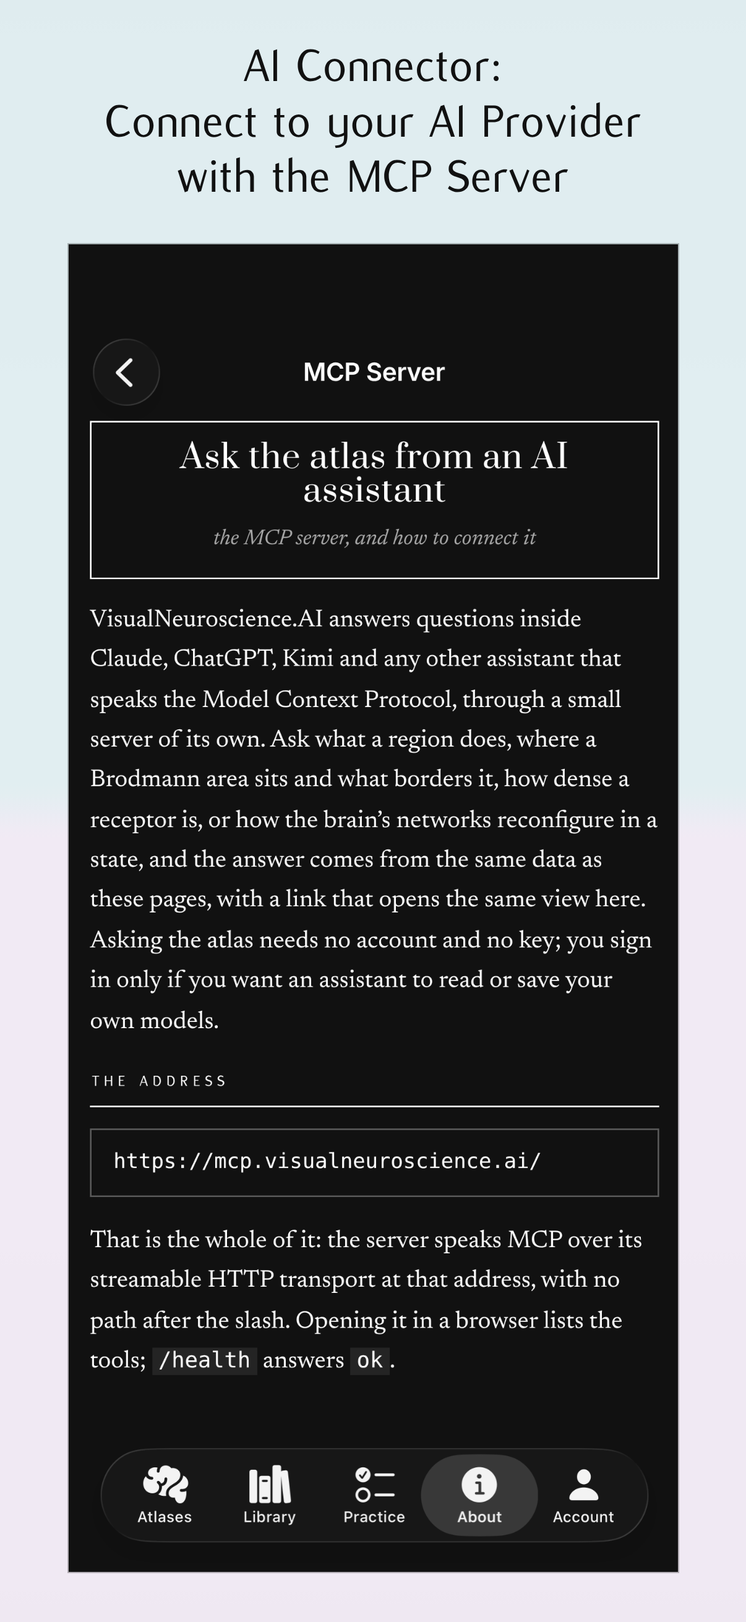
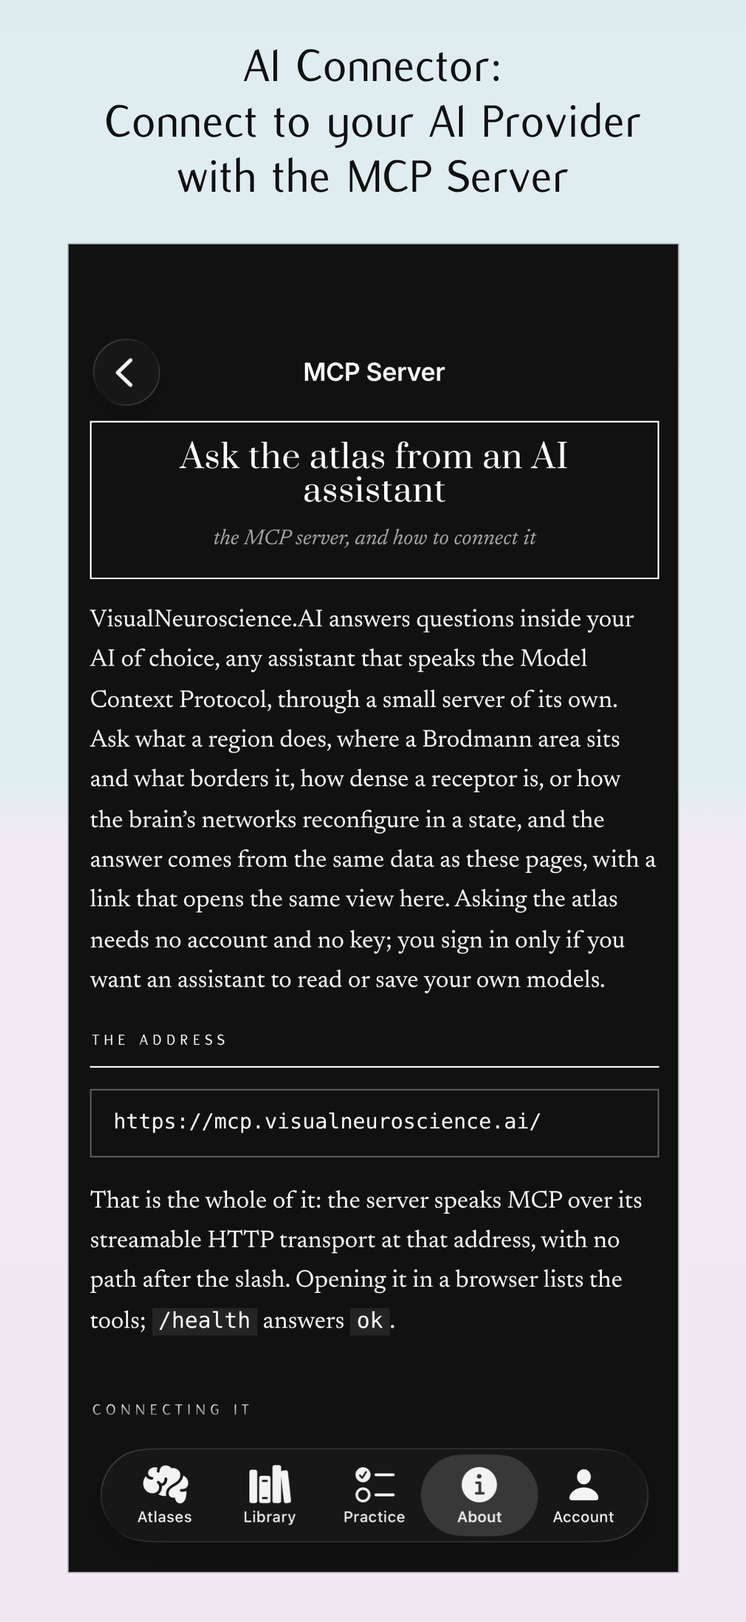
Name no AI assistant in the app, the site or the store listing
App Review rejected 2.0 (294) under Guideline 5 for the China mainland storefront because What's New, the description and the AI Connector screenshot named ChatGPT beside other assistants. At the owner's word every assistant's name comes out of the MCP page, the home page's About hub and its dateline link, the Vision Pro About card, the privacy policy, the About tab's twins in the shell and the listing's text, which now say to use the MCP server with your AI of choice; the MCP page's setup list describes adding the server in any assistant, for an organisation and in a coding assistant. The AI Connector store images are remade at every size, the closed Duo shots now light their own tab, and the listing carries the resubmission steps, a review note and a reply. The submission skill fails a sheet that names ChatGPT, OpenAI or GPT, warns on other assistants' names and tells the reader to check screenshot text, and the handover notes record the rule.

Changed region(s): [[0.1227, 0.3707, 0.8897, 0.865]]

diff --git a/site/mcp.html b/site/mcp.html
@@ -4,14 +4,14 @@
 <meta charset="utf-8">
 <meta name="viewport" content="width=device-width, initial-scale=1.0, viewport-fit=cover">
 <title>Ask the atlas from an AI assistant — VisualNeuroscience.AI</title>
-<meta name="description" content="How to connect VisualNeuroscience.AI to Claude, ChatGPT, Kimi or any assistant that speaks the Model Context Protocol, what its five tools answer, and where the answers come from.">
+<meta name="description" content="How to use VisualNeuroscience.AI with your AI of choice, any assistant that speaks the Model Context Protocol, what its five tools answer, and where the answers come from.">
 <!-- link previews. The card is built by site/share.html and rendered to
      assets/social-card.jpg; og:image has to be absolute, so this origin is
      the one thing to change if the site moves to its own domain. -->
 <meta property="og:type" content="website">
 <meta property="og:site_name" content="VisualNeuroscience.AI">
 <meta property="og:title" content="Ask the atlas from an AI assistant — VisualNeuroscience.AI">
-<meta property="og:description" content="Connect the brain atlas to Claude, ChatGPT or Kimi and ask it what a region does, where a receptor is densest, or how the brain changes in a state.">
+<meta property="og:description" content="Use the brain atlas with your AI of choice and ask it what a region does, where a receptor is densest, or how the brain changes in a state.">
 <meta property="og:url" content="https://visualneuroscience.ai/mcp.html">
 <meta property="og:image" content="https://midnightneuroscience.cloudflare-passport599.workers.dev/assets/social-card.jpg">
 <meta property="og:image:type" content="image/jpeg">
@@ -289,7 +289,7 @@ svg{ display:block; }
 
 <div class="policy">
 
-<p class="lede">VisualNeuroscience.AI answers questions inside Claude, ChatGPT, Kimi and any other assistant that speaks the Model Context Protocol, through a small server of its own. Ask what a region does, where a Brodmann area sits and what borders it, how dense a receptor is, or how the brain&rsquo;s networks reconfigure in a state, and the answer comes from the same data as these pages, with a link that opens the same view here. Asking the atlas needs no account and no key; you sign in only if you want an assistant to read or save your own models.</p>
+<p class="lede">VisualNeuroscience.AI answers questions inside your AI of choice, any assistant that speaks the Model Context Protocol, through a small server of its own. Ask what a region does, where a Brodmann area sits and what borders it, how dense a receptor is, or how the brain&rsquo;s networks reconfigure in a state, and the answer comes from the same data as these pages, with a link that opens the same view here. Asking the atlas needs no account and no key; you sign in only if you want an assistant to read or save your own models.</p>
 
 <h2>The address</h2>
 <pre><code>https://mcp.visualneuroscience.ai/</code></pre>
@@ -297,13 +297,11 @@ svg{ display:block; }
 
 <h2>Connecting it</h2>
 <ul>
-  <li><b>Claude</b> on the web, desktop or phone. Go to <i>Customize</i>, then <i>Connectors</i>, choose <i>Add custom connector</i>, paste the address, set authentication to <i>Sign in when needed</i> and press <i>Add</i>. The atlas tools then work straight away, and the account tools ask you to sign in the first time one is used. In a chat, press <b>+</b>, open <i>Connectors</i> and switch it on.</li>
-  <li><b>Claude on a Team or Enterprise plan.</b> An owner adds it once under <i>Organization settings</i>, then <i>Connectors</i>, with <i>Add</i>, then <i>Custom</i>. Everyone else finds it under <i>Customize</i>, then <i>Connectors</i>, and presses <i>Connect</i>.</li>
-  <li><b>Claude Code.</b> <code>claude mcp add --transport http visualneuroscience https://mcp.visualneuroscience.ai/</code></li>
-  <li><b>ChatGPT.</b> In <i>Settings</i>, then <i>Apps &amp; Connectors</i>, turn on <i>Developer mode</i> under <i>Advanced</i>, then <i>Add MCP server</i> with the address.</li>
-  <li><b>Kimi.</b> <code>kimi mcp add --transport http visualneuroscience https://mcp.visualneuroscience.ai/</code>, or the same entry in <code>~/.kimi-code/mcp.json</code>.</li>
+  <li><b>In an assistant&rsquo;s app or website.</b> Open the settings where it adds connectors, apps or MCP servers, add a custom one with the address and, if it asks how to authenticate, choose to sign in when needed. The atlas tools then work straight away, and the account tools ask you to sign in the first time one is used. Some assistants keep custom servers behind a developer mode in their settings, and most let you switch a connector on for each chat.</li>
+  <li><b>For a team or an organisation.</b> Where an owner manages connectors for everyone, they add it once with the address, and everyone else connects it from their own settings.</li>
+  <li><b>In a coding assistant.</b> Add it as an HTTP server named <code>visualneuroscience</code> with the address, through the assistant&rsquo;s own command for adding an MCP server or its MCP settings file.</li>
 </ul>
-<p>The five atlas tools are read-only and say so in their annotations, so an assistant can call them without asking you to approve each one; nothing an assistant does through them changes anything, here or anywhere. Four more tools work on your own account, and ask you to sign in the first time one is reached: on a Team or Enterprise plan, the owner should add the connector with authentication set to <i>Sign in when needed</i>.</p>
+<p>The five atlas tools are read-only and say so in their annotations, so an assistant can call them without asking you to approve each one; nothing an assistant does through them changes anything, here or anywhere. Four more tools work on your own account, and ask you to sign in the first time one is reached: where an owner adds the connector for an organisation, they should set its authentication to sign in when needed.</p>
 
 <h2>The five tools</h2>
 <dl>

diff --git a/site/privacy.html b/site/privacy.html
@@ -296,7 +296,7 @@ svg{ display:block; }
 <h2>Optional services</h2>
 <p>Five services add to the list above:</p>
 <ul>
-  <li><b>Questions asked through an AI assistant.</b> The atlas answers questions inside Claude, ChatGPT, Kimi and other assistants that speak the Model Context Protocol, through a small server at mcp.visualneuroscience.ai, <a href="mcp.html">described on its own page</a>. That server answers from the same public data as these pages, holds no accounts of its own, stores nothing about you, and keeps no record of your questions beyond the short-lived operational logs of the platform it runs on. If you choose to connect your account to an assistant, you log in on this site and press Allow, and the assistant is given a key that lets it read your username, university and email and list, open and save your Region Atlas models, through the same Firebase service the app uses and under the same rules; the server keeps no copy of any of it. The key stops working when you disconnect the assistant, change your password or delete the account. What you type to the assistant itself is governed by that assistant&rsquo;s own privacy policy, not this one.</li>
+  <li><b>Questions asked through an AI assistant.</b> The atlas answers questions inside the AI assistant of your choice, any that speaks the Model Context Protocol, through a small server at mcp.visualneuroscience.ai, <a href="mcp.html">described on its own page</a>. That server answers from the same public data as these pages, holds no accounts of its own, stores nothing about you, and keeps no record of your questions beyond the short-lived operational logs of the platform it runs on. If you choose to connect your account to an assistant, you log in on this site and press Allow, and the assistant is given a key that lets it read your username, university and email and list, open and save your Region Atlas models, through the same Firebase service the app uses and under the same rules; the server keeps no copy of any of it. The key stops working when you disconnect the assistant, change your password or delete the account. What you type to the assistant itself is governed by that assistant&rsquo;s own privacy policy, not this one.</li>
   <li><b>An account, if you make one.</b> When a Log in button is present, sign-in is handled by Google&rsquo;s Firebase service. It stores your email address, your name, the username you choose (which is shown in place of your name, and which no one else can take), your university if you give it, the files you choose to save (such as the named models of the Region Atlas), and your progress in the practice questions, so that the same account works on the web and in the apps. That data exists to serve your account back to you: it is deleted with the account, and it is never sold or used for advertising. Making an account also offers feature announcements by email, in a box that starts clear: tick it and your address goes to the newsletter below, leave it and nothing is sent. A run of wrong passwords is counted in your browser for a quarter of an hour, so that the sign-in box can ask for a tick before the next try; signing in clears the count.</li>
   <li id="newsletter"><b>The newsletter, if you ask for it.</b> A box on the website&rsquo;s pages offers a short email when something new lands, and making an account, on the website or in the apps, offers the same. If you type your address in, or tick the box as you make an account, a small server of ours passes it straight to Mailchimp, the mailing-list service run by Intuit, which keeps the newsletter&rsquo;s list on its servers in the United States and sends the emails. Mailchimp first writes to you to confirm, and you are on the list only once you do; every email carries a way to leave, and leaving takes you off the list. Nothing is sent unless you press the button or tick that box, the address is used for feature announcements and nothing else, and our server keeps no copy of its own. Closing the box is remembered in your browser for a fortnight; signing up is remembered so it does not ask again.</li>
   <li id="posters"><b>A poster, if you buy one.</b> The <a href="posters.html">posters</a> are sold through a print-on-demand shop run by a separate business, named on that page, which takes your payment, your delivery address and your order on its own site, under its own privacy policy, and prints and posts the poster. The Buy buttons here only open that shop; this site and the apps see none of what you enter there, and no part of your order is tied to an account here.</li>

diff --git a/site/index.html b/site/index.html
@@ -142,7 +142,7 @@ img{ max-width:100%; height:auto; display:block; }
   font-size:.95rem; letter-spacing:0; text-transform:none; color:var(--ink);
 }
 /* the web points to the App Store and, under it, to the MCP server, which
-   lets Claude and other AI assistants ask the atlas questions; the app,
+   lets the AI of a person's choice ask the atlas questions; the app,
    already installed, names its scans in place of the store and keeps the
    server line */
 .dateline .dl-links{ display:inline-flex; flex-direction:column; align-items:flex-end; gap:.35rem; }
@@ -409,7 +409,7 @@ img{ max-width:100%; height:auto; display:block; }
     <span class="dl-scan">MNI152 &middot; AAL-116</span>
     <span class="dl-links">
       <a class="dl-app" href="https://apps.apple.com/app/id6805618686" target="_blank" rel="noopener">Also on the App Store &rarr;</a>
-      <a class="dl-mcp" href="mcp.html">Also in Claude, as an MCP server &rarr;</a>
+      <a class="dl-mcp" href="mcp.html">Also with your AI of choice, as an MCP server &rarr;</a>
     </span>
   </div>
 
@@ -545,7 +545,7 @@ img{ max-width:100%; height:auto; display:block; }
       <div class="side">
         <div class="kicker">For AI assistants</div>
         <h2>MCP Server</h2>
-        <p>Ask the atlas from Claude, ChatGPT, Kimi or any assistant that speaks the Model Context Protocol: what a region does, where a receptor is densest, how the brain changes in a state. Each answer links to the view it describes.</p>
+        <p>Use the MCP server with your AI of choice. Any assistant that speaks the Model Context Protocol can ask the atlas what a region does, where a receptor is densest or how the brain changes in a state, and each answer links to the view it describes.</p>
         <div class="meta">9 tools &middot; no key needed &middot; sign in only for your own models</div>
         <div class="go">How to connect &rarr;</div>
       </div>
@@ -563,7 +563,7 @@ img{ max-width:100%; height:auto; display:block; }
       <ul class="soon-list">
         <li><b>Circuit Atlas</b><span>The 3D Region Atlas with the traffic drawn on: animated paths run from region to region, so a circuit such as the Hallucinations study&rsquo;s plays out on the brain.</span></li>
         <li><b>Regions in depth</b><span>A detailed functional breakdown of every region, written from the research, beyond the line the atlas gives each one now.</span></li>
-        <li><b>The MCP server, extended</b><span>New tools for an assistant: the Circuit Atlas&rsquo;s paths and the detailed breakdowns, answered in Claude, ChatGPT, Kimi or any assistant that speaks the protocol.</span></li>
+        <li><b>The MCP server, extended</b><span>New tools for your AI of choice: the Circuit Atlas&rsquo;s paths and the detailed breakdowns, answered in any assistant that speaks the protocol.</span></li>
       </ul>
     </div>
 

diff --git a/site/vision-about.html b/site/vision-about.html
@@ -57,7 +57,7 @@
   <div class="vcard">
     <div class="vkicker">For AI assistants</div>
     <h2>MCP Server</h2>
-    <p class="lede">Ask the atlas from Claude, ChatGPT, Kimi or any assistant that speaks the Model Context Protocol: what a region does, where a receptor is densest, how the brain changes in a state. Each answer links to the view it describes.</p>
+    <p class="lede">Use the MCP server with your AI of choice. Any assistant that speaks the Model Context Protocol can ask the atlas what a region does, where a receptor is densest or how the brain changes in a state, and each answer links to the view it describes.</p>
     <p class="mcp-at">Add <b>https://mcp.visualneuroscience.ai/</b> to the assistant as a connector.</p>
     <p class="mcp-meta">9 tools &middot; no key needed &middot; sign in only for your own models</p>
   </div>
@@ -78,7 +78,7 @@
     <h3>The atlas</h3>
     <p>An interactive atlas of the human brain: the MNI152 head under the AAL-116 parcellation, the Brodmann areas searchable by what they do, whole-brain tractography, receptor densities, network states and published studies drawn on the scan &mdash; free, offline, and rendered on your own device. I believe it is the most advanced and most usable brain atlas on the App Store: the deep atlases live in research infrastructure like the EU&rsquo;s EBRAINS, built for laboratories, and nothing there or on the store puts this much of the brain in your hands, readable without training.</p>
 
-    <p>It is also available as an MCP server: Claude and other AI assistants can ask the atlas questions at <b>mcp.visualneuroscience.ai</b>, with answers that link back into the atlas.</p>
+    <p>It is also available as an MCP server: your AI of choice can ask the atlas questions at <b>mcp.visualneuroscience.ai</b>, with answers that link back into the atlas.</p>
 
     <h3>The developer</h3>
     <p>I am Fadil Karim. I finished a PGCert in Applied Neuroscience at King&rsquo;s College London and could not carry it on to the full master&rsquo;s &mdash; full-time work and the cost got in the way. So I kept learning by building the atlas I had wanted to study from. One person, at OttomanLabs, with a short feedback loop: write to <b>fkarim@visualneuroscience.ai</b> and it usually ships within the week.</p>

diff --git a/app/ios/App/App/Shell.swift b/app/ios/App/App/Shell.swift
@@ -346,7 +346,7 @@ struct AboutTab: View {
     var body: some View {
         TabPage {
             PageBox(page: .mcp, kicker: "For AI assistants",
-                    text: "Ask the atlas from Claude, ChatGPT, Kimi or any assistant that speaks the Model Context Protocol: what a region does, where a receptor is densest, how the brain changes in a state. Each answer links to the view it describes.",
+                    text: "Use the MCP server with your AI of choice. Any assistant that speaks the Model Context Protocol can ask the atlas what a region does, where a receptor is densest or how the brain changes in a state, and each answer links to the view it describes.",
                     meta: "9 tools · no key needed · sign in only for your own models",
                     go: "How to connect")
             Box(kicker: "On the way", title: "Coming soon",
@@ -354,7 +354,7 @@ struct AboutTab: View {
                 VStack(alignment: .leading, spacing: 0) {
                     SoonRow(name: "Circuit Atlas", text: "The 3D Region Atlas with the traffic drawn on: animated paths run from region to region, so a circuit such as the Hallucinations study’s plays out on the brain.")
                     SoonRow(name: "Regions in depth", text: "A detailed functional breakdown of every region, written from the research, beyond the line the atlas gives each one now.")
-                    SoonRow(name: "The MCP server, extended", text: "New tools for an assistant: the Circuit Atlas’s paths and the detailed breakdowns, answered in Claude, ChatGPT, Kimi or any assistant that speaks the protocol.")
+                    SoonRow(name: "The MCP server, extended", text: "New tools for your AI of choice: the Circuit Atlas’s paths and the detailed breakdowns, answered in any assistant that speaks the protocol.")
                 }
                 .padding(.top, 10)
             }

diff --git a/app/scripts/remake-store-images.js b/app/scripts/remake-store-images.js
@@ -298,6 +298,8 @@ SHOTS.push(
 );
 const PHONE = Object.fromEntries(SHOTS.filter(x => x.dev === 'iphone' && x.top).map(x => [x.out, x]));
 for (const s of SHOTS) if (s.dev === 'duo') s.top = PHONE[s.out] ? PHONE[s.out].top : 'iphone-top-dark-3d-region-atlas';
+/* the closed Duo's column lights the page's own tab as the open one does (it lit Atlases on every shot until v12.69) */
+for (const s of SHOTS) if (s.dev === 'duo') s.tab = TAB[s.out] || 'atlases';
 
 /* the page as the shell shows it */
 const shell = (o) => {

diff --git a/site/sw.js b/site/sw.js
@@ -25,7 +25,7 @@
    Nothing cross-origin is touched at all — since the typefaces moved
    in-house there is no outside request left to think about. */
 
-var VERSION = "vn-271";
+var VERSION = "vn-272";
 var SHELL   = VERSION + "-shell";
 var BULK    = VERSION + "-bulk";
 

diff --git a/.claude/skills/app-store-connect-submission/scripts/check_sheet.py b/.claude/skills/app-store-connect-submission/scripts/check_sheet.py
@@ -18,7 +18,7 @@ decides which fields must be there.
 The script counts every field against its limit (the keywords in bytes as
 well, the stricter reading), checks the keywords against the store's
 rules, looks in the public text for words the store refuses (other
-platforms, "beta", unfinished markers), checks that every URL is https
+platforms, AI assistants by name, "beta", unfinished markers), checks that every URL is https
 and, with --online, that each one answers. Text in [[double brackets]]
 inside a field's block is typed by hand into App Store Connect (a password,
 a phone number) and is listed as such; anywhere else in the sheet it is a
@@ -56,6 +56,12 @@ PUBLIC = ('name', 'subtitle', 'promotional text', 'description', 'keywords', "wh
 # Words a store listing may not carry (2.3.10, 2.1) and words that waste keyword room.
 # Apple's own devices are fine to name; other companies' platforms and stores are not.
 PLATFORM = re.compile(r'\b(android|google play|play store|windows phone|windows store|samsung galaxy store|huawei appgallery)\b', re.I)
+# AI assistants by name. App Review rejects a listing for the China mainland
+# storefront when its metadata names a generative AI service with no permit
+# there (Guideline 5; ChatGPT and OpenAI by name, as on 30 October 2026), so
+# those fail and the other assistants' names warn: say "your AI of choice".
+AI_FAIL = re.compile(r'\b(chatgpt|openai|gpts?)\b', re.I)
+AI_WARN = re.compile(r'\b(claude|anthropic|gemini|bard|copilot|kimi|moonshot|deepseek|grok|perplexity|llama|mistral|qwen)\b', re.I)
 UNFINISHED = re.compile(r'\b(TODO|TBD|FIXME|XXX|lorem ipsum)\b', re.I)
 UNFINISHED_PROSE = re.compile(r'\b(TODO|TBD|FIXME)\b')
 BETA = re.compile(r'\b(beta|test version|pre-release|prerelease)\b', re.I)
@@ -265,6 +271,12 @@ def main(argv):
             warns.append(f'{name} names another platform or store ("{m.group(0)}"); guideline 2.3.10 forbids it.')
         for m in BETA.finditer(body):
             warns.append(f'{name} says "{m.group(0)}"; the store wants finished apps (2.1).')
+        for ai in sorted({m.group(0) for m in AI_FAIL.finditer(body)}):
+            fails.append(f'{name} names "{ai}"; App Review rejects that for the China mainland storefront (Guideline 5). '
+                         'Say "your AI of choice", or leave China out of Availability.')
+        for ai in sorted({m.group(0) for m in AI_WARN.finditer(body)}):
+            warns.append(f'{name} names "{ai}"; if that is an AI assistant, China\'s rules can reject it as they do ChatGPT '
+                         '(Guideline 5). Name no assistant, or leave China out of Availability.')
 
     # in the fields: what is typed by hand, and what was never finished
     for _, name, _, body in fields:

diff --git a/app/store/LISTING.md b/app/store/LISTING.md
@@ -244,13 +244,13 @@ ten for the iPad and ten for each iPhone size.
 Check the build number on the 1.0 page first. If 1.0 went out as build 14
 rather than 15, the second block is new to App Store users as well and goes
 at the end of the first. 4,000 characters allowed; both together come to
-3,180.
+3,148.
 
-**What's New in This Version** (2,812/4000)
+**What's New in This Version** (2,780/4000)
 
 ```
 • A tab bar: Atlases, Library, Practice, About and Account, each a page of its own that keeps its place when you switch away and back. Light or dark is chosen under Account.
-• AI Connector: ask the atlas from Claude, ChatGPT, Kimi or any assistant that supports the Model Context Protocol. Each answer links to the view it describes, and the About tab shows how to connect.
+• AI Connector: use the MCP server with your AI of choice. Any assistant that supports the Model Context Protocol can ask the atlas questions, each answer links to the view it describes, and the About tab shows how to connect.
 • Every atlas fills the screen like an anatomy app: the views take the room, the tools run along a bar at the foot, and the regions sit in a drawer you can hide. Each atlas remembers where you left it, cuts and all.
 • Microanatomy: a neuron drawn part by part, with twenty structures to tap and a quiz to learn them, seventeen neurotransmitters drawn the way chemists draw them, and a hundred and fifty receptors, channels and transporters, each with the drugs that act on it.
 • Molecular: the dopamine and serotonin receptors themselves in 3D, built from thirty-nine experimental structures. Watch the neurotransmitter dock and switch the receptor on, see where antipsychotics, triptans, LSD and psilocin sit in the same pocket, and compare the subtypes. The binding tour reads at two levels, Simple and Detailed.
@@ -281,7 +281,7 @@ the owner's word; it can be changed at any time without a new version:
 A free 3D atlas of the human brain: regions, Brodmann areas, receptors, cells, white matter and networks, with revision questions and an AI connector. Works offline.
 ```
 
-**Description** (3,952/4000). 1.0's description predated
+**Description** (3,974/4000). 1.0's description predated
 Microanatomy, Molecular and the AI Connector and said its developer had not
 finished the postgraduate certificate, which was finished; this one follows
 the Play listing's list, adds the AI Connector, words the account line for
@@ -306,7 +306,7 @@ WHAT IS INSIDE
 
 AI CONNECTOR
 
-Ask the atlas from Claude, ChatGPT, Kimi or any assistant that supports the Model Context Protocol: what a region does, where a receptor is densest, how the brain changes in a state. Each answer links to the view it describes; the About tab shows how to connect.
+Use the MCP server with your AI of choice. Any assistant that supports the Model Context Protocol can ask the atlas what a region does, where a receptor is densest or how the brain changes in a state; each answer links to the view it describes, and the About tab shows how to connect.
 
 MADE FOR TOUCH, AND FOR A DESK
 
@@ -329,6 +329,35 @@ Built by one developer, with the help of AI and a PG Cert in Applied Neuroscienc
 Not a medical device and not a diagnostic tool. An educational reference that summarises published work and draws published atlases, with its sources on every page.
 
 Also on the web at visualneuroscience.ai
+```
+
+## 2.0 (294) rejected for China: resubmitting
+
+App Review rejected 2.0 (294) on 30 October 2026 under Guideline 5 (Legal):
+China's rules on generative AI services, which ChatGPT holds no permit for,
+and "the app's metadata includes the following references to ChatGPT and/or
+OpenAI: ChatGPT, GPT". They came from the AI Connector lines of What's New
+and the description, and from the AI Connector screenshot, the MCP page,
+which named Claude, ChatGPT and Kimi; 1.0 had no AI Connector and never
+named one. Since v12.69, at the owner's word, nothing in the listing, the
+screenshots or the app names an AI assistant: the connector is used with
+"your AI of choice". To resubmit:
+
+1. Wait for the build Xcode Cloud makes from v12.69 or later (the About
+   tab's text is in the app) and pick it on the 2.0 page in place of 294.
+2. Paste *What's New* and the description again from above.
+3. Replace the AI Connector images (`*-11-mcp.png`, every size) with the
+   ones remade in v12.69, or leave that shot out of the ten.
+4. Add this paragraph to the notes under App Review Information:
+
+```
+Guideline 5 (China): this version names no AI assistant anywhere, in its metadata, its screenshots or the app itself. The app has no ChatGPT or OpenAI functionality: it embeds no AI model and calls no AI service. Its AI Connector is a public Model Context Protocol server on our own domain that a person can add, outside the app, to an assistant of their choice; the app only explains how.
+```
+
+5. Reply to the message in App Review, then resubmit:
+
+```
+Hello, and thank you for the review. We have removed every reference to ChatGPT and OpenAI, and to any other AI assistant, from the app's metadata, its screenshots and the app itself, and the Review Notes now say so. The app has no ChatGPT or OpenAI functionality: it embeds no AI model and calls no AI service. Its AI Connector is a public Model Context Protocol server on our own domain that a person can add to an assistant of their choice outside the app. We have resubmitted version 2.0 with a new build. Thank you.
 ```
 
 ## Submitting 2.0, in order

diff --git a/CLAUDE.md b/CLAUDE.md
@@ -73,7 +73,7 @@ Read this first in every session. It is the handover; nothing else needs pasting
   under the portrait, from Thank you for downloading Visual Neuroscience (the lede) to Write to
   fkarim@visualneuroscience.ai and I read it myself, then the signature, the links and the stamp, with no headings (v12.15
   had cut the six sections that stood there); since v12.25, at the owner's word, its models are from Anthropic and
-  Moonshot, where it said Kimi (the MCP pages still name Kimi, the assistant); and since v12.43, at the owner's word,
+  Moonshot, where it said Kimi (the MCP pages named Kimi, the assistant, until v12.69, below); and since v12.43, at the owner's word,
   the second paragraph no longer opens with I am a solo developer, and the built-with sentence reads with knowledge
   from my post-grad in Applied Neuroscience from King's College London Online and my experience in software
   development, where it read with the help of AI and my knowledge from my PG Cert, and the invitation to write in
@@ -206,6 +206,19 @@ Read this first in every session. It is the handover; nothing else needs pasting
   notes, Brodmann areas, network states or the receptor table in `regions.html` change, then ask for a deploy. Its
   sign-in (`mcp-worker/oauth.js`, consent page `site/connect.html`) needs the `OAUTH_SECRET` worker secret, set once
   by the owner; `node mcp-worker/tests/oauth.test.mjs` runs the whole flow offline and must pass before a deploy.
+- **Name no AI assistant** anywhere the app, the site's pages or the store listing shows, pictures included: the MCP
+  server is used with "your AI of choice" (v12.69, at the owner's word). App Review rejected 2.0 (294) on 30 October
+  2026 under Guideline 5 for the China mainland storefront, whose rules refuse generative AI services without a
+  permit there, because What's New, the description and the AI Connector screenshot named ChatGPT beside Claude and
+  Kimi; v12.69 took every assistant's name out of `mcp.html` (its Connecting it list now says how to add the server
+  in any assistant's settings, for an organisation and in a coding assistant), the home page's About hub and its
+  dateline link, `vision-about.html`, `privacy.html`, the About tab's twins in `Shell.swift`, `app/store/LISTING.md`
+  and the AI Connector images, and the submission skill's `check_sheet.py` now fails on ChatGPT, OpenAI and GPT and
+  warns on other assistants' names. The repository's own notes keep the per-assistant setup (`docs/MCP.md`,
+  `README.md`, comments in `mcp-worker/`), and three mentions stand for the owner to decide: the letter's models
+  from Anthropic and Moonshot (`about.html`, the owner's words), the Vision Pro card's How it was built
+  (`vision-about.html`) and one OpenStax sentence naming ChatGPT as an example of AI (`textbook.html`, the book's
+  own text).
 - Usage counts (since v11.21): Google Analytics for Firebase on the website (the vendored bundle's analytics module,
   `measurementId` in `site/assets/firebase-config.js`) and in the apps (`@capacitor-firebase/analytics`, iOS trait
   `AnalyticsWithoutAdIdSupport`, Android manifest with advertising-ID collection off). `site/assets/auth.js` initialises
@@ -986,7 +999,9 @@ Read this first in every session. It is the handover; nothing else needs pasting
 
 ## Open on the owner's side (update as they close)
 - App Store: version 1.0 was approved and released on 25 September 2026 (https://apps.apple.com/app/id6805618686)
-  after an expedited review. The project is at 2.0 for the next submission (the owner's choice of 25 October 2026, in
+  after an expedited review. 2.0 (294) was rejected on 30 October 2026 under Guideline 5 for naming ChatGPT (see
+  Name no AI assistant above); `app/store/LISTING.md` has the resubmission's steps, review note and reply, and it
+  needs a build from v12.69 or later. The project is at 2.0 for the next submission (the owner's choice of 25 October 2026, in
   place of 1.1: `MARKETING_VERSION` in the Xcode project and Android's `versionName`, and the version page in App Store
   Connect must say 2.0 as well, since a build's number and its page's must agree); its What's New text, the App Privacy
   changes the newsletter and the usage counts need, and the steps are in `app/store/LISTING.md`, the screenshots in

diff --git a/.claude/skills/app-store-connect-submission/SKILL.md b/.claude/skills/app-store-connect-submission/SKILL.md
@@ -30,7 +30,7 @@ references/screenshots.md     the slots, the sizes, what a screenshot may show, 
 references/review-replies.md  the Information Needed reply, answering rejections, what to do while waiting
 assets/sheet-template.md      the sheet's skeleton, all three kinds
 assets/example-update.md      an illustration of a finished update sheet: the shape and the voice, not values to copy
-scripts/check_sheet.py        counts every field against its limit; checks keywords, platform words, URLs, gaps and open questions
+scripts/check_sheet.py        counts every field against its limit; checks keywords, platform words, AI assistants' names, URLs, gaps and open questions
 scripts/check_screenshots.py  says which slot each image fits; flags sizes no slot takes and transparency
 scripts/live_listing.py       what the App Store shows now for a live app: version, release notes, description
 ```
@@ -110,7 +110,8 @@ rules that matter most:
   line true on the new device (writing.md, section 10).
 - **Write in the project's voice.** Plain, specific, the project's spelling
   (British if its pages are), no superlatives, no other companies'
-  platforms or stores, no competitors' names, nothing the app does not do.
+  platforms or stores, no competitors' names, no AI assistant by name (say
+  "your AI of choice"), nothing the app does not do.
 - **What's New is for the public**: what they can do now that they could
   not in the version they have, most noticeable first, in their words, no
   file names or build talk.
@@ -144,7 +145,7 @@ manual release and let the person decide when.
 ### 5. Check it
 
 ```
-python3 scripts/check_sheet.py <sheet.md>            # counts, keywords, platform words, gaps, open questions
+python3 scripts/check_sheet.py <sheet.md>            # counts, keywords, platform and AI words, gaps, open questions
 python3 scripts/check_sheet.py <sheet.md> --online   # and asks each URL whether it answers
 python3 scripts/check_screenshots.py <folder>        # each image's slot; sizes no slot takes; transparency
 ```
@@ -227,6 +228,12 @@ at any time without a new version.
 - **A new device's screenshots can claim more than the build gives.** A
   device whose layout needs a newer SDK is served properly only by a build
   made with it; fill its slot only once the build earns it.
+- **An update was rejected for China under Guideline 5** for naming
+  ChatGPT beside other assistants in What's New, the description and a
+  screenshot of a page that named them. Name no AI assistant anywhere the
+  public reads, pictures included: the sheet check fails on ChatGPT, OpenAI
+  and GPT and warns on other assistants' names, and no script reads the
+  screenshots, so read them.
 - **"Coming soon" placeholders** in screenshots or features draw 2.1
   questions; either explain them in the notes or keep them out of the
   pictures.

diff --git a/.claude/skills/app-store-connect-submission/assets/example-update.md b/.claude/skills/app-store-connect-submission/assets/example-update.md
@@ -136,7 +136,7 @@ WHAT IS INSIDE
 
 AI CONNECTOR
 
-Ask the atlas from Claude, ChatGPT, Kimi or any assistant that supports the Model Context Protocol: what a region does, where a receptor is densest, how the brain changes in a state. Each answer links to the view it describes; the About tab shows how to connect.
+Use the MCP server with your AI of choice. Any assistant that supports the Model Context Protocol can ask the atlas what a region does, where a receptor is densest or how the brain changes in a state; each answer links to the view it describes, and the About tab shows how to connect.
 
 MADE FOR TOUCH, AND FOR A DESK
 
@@ -192,7 +192,7 @@ https://visualneuroscience.ai
 ### What's New in This Version (4000)
 ```text
 • A tab bar: Atlases, Library, Practice, About and Account, each a page of its own that keeps its place when you switch away and back. Light or dark is chosen under Account.
-• AI Connector: ask the atlas from Claude, ChatGPT, Kimi or any assistant that supports the Model Context Protocol. Each answer links to the view it describes, and the About tab shows how to connect.
+• AI Connector: use the MCP server with your AI of choice. Any assistant that supports the Model Context Protocol can ask the atlas questions, each answer links to the view it describes, and the About tab shows how to connect.
 • Every atlas fills the screen like an anatomy app: the views take the room, the tools run along a bar at the foot, and the regions sit in a drawer you can hide. Each atlas remembers where you left it, cuts and all.
 • Microanatomy: a neuron drawn part by part, with twenty structures to tap and a quiz to learn them, seventeen neurotransmitters drawn the way chemists draw them, and a hundred and fifty receptors, channels and transporters, each with the drugs that act on it.
 • Molecular: the dopamine and serotonin receptors themselves in 3D, built from thirty-nine experimental structures. Watch the neurotransmitter dock and switch the receptor on, see where antipsychotics, triptans, LSD and psilocin sit in the same pocket, and compare the subtypes. The binding tour reads at two levels, Simple and Detailed.
